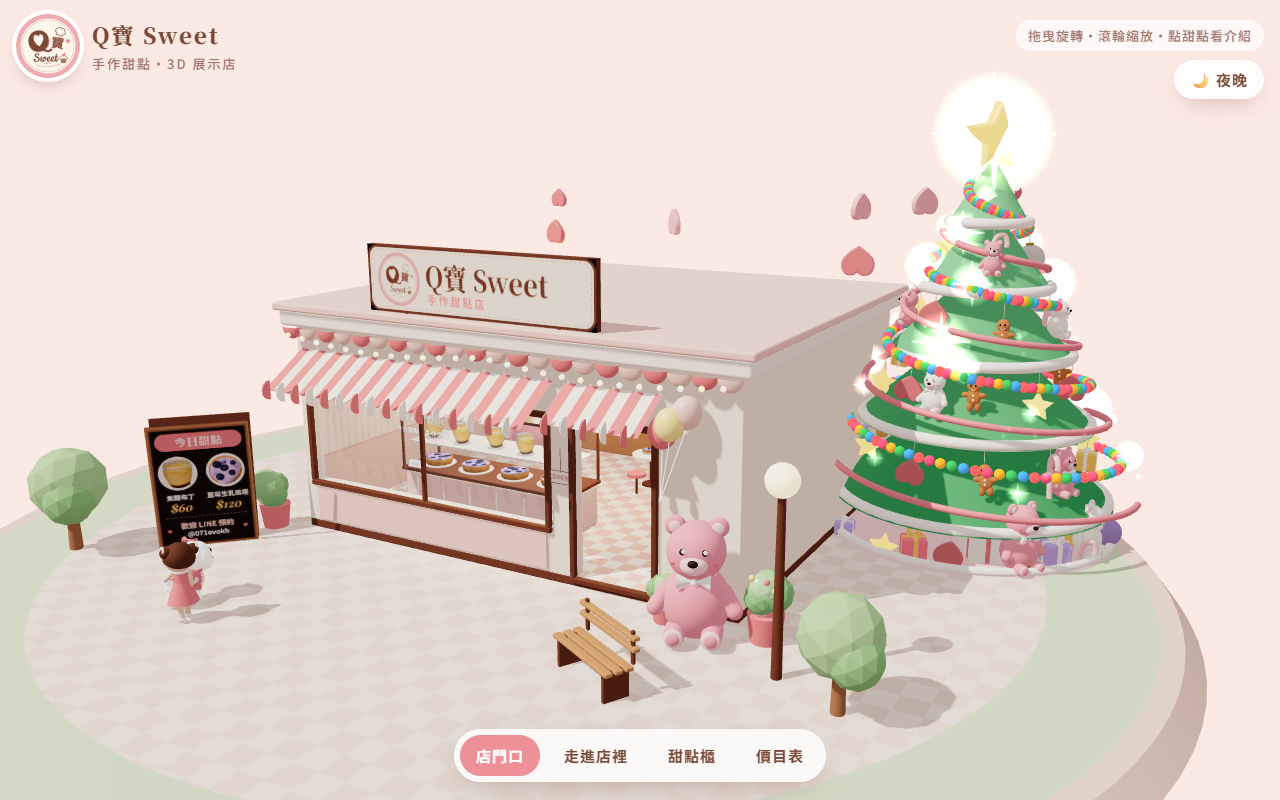
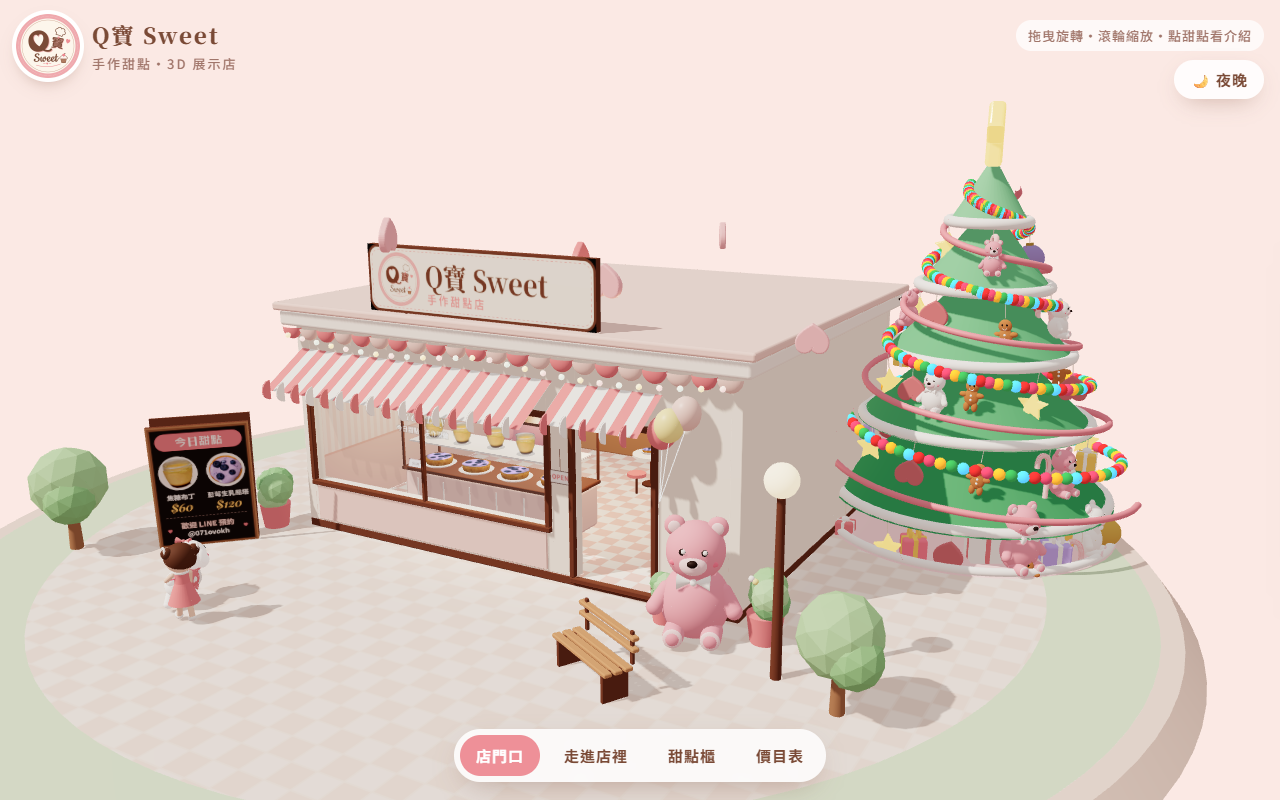
Remove white sparkle sprites; keep colorful twinkling bulbs

diff --git a/index.html b/index.html
@@ -646,21 +646,13 @@ function grandTree(x, z, S = 1){
   mesh(new THREE.TubeGeometry(new THREE.CatmullRomCurve3(pts), 400, .055, 8, false), mat(0xff9fb0, { roughness:.4, metalness:.15 }), 0, 0, 0, g);
   // fairy lights (instanced)
   const bulbM = [0xffc23a, 0xff5c8a, 0xff3b3b, 0x4fb4ff, 0x47d16c].map(c => new THREE.MeshStandardMaterial({ color:c, emissive:c, emissiveIntensity:1.1, toneMapped:false }));
-  const M4 = new THREE.Matrix4(), Q0 = new THREE.Quaternion(), V0 = new THREE.Vector3(), S0 = new THREE.Vector3(.085,.085,.085);
+  const M4 = new THREE.Matrix4(), Q0 = new THREE.Quaternion(), V0 = new THREE.Vector3(), S0 = new THREE.Vector3(.095,.095,.095);
   bulbM.forEach((bm, j) => {
     bm.userData.tw = true; twBulbs.push([bm, j * 1.7]);
     const N = 64, im = new THREE.InstancedMesh(new THREE.SphereGeometry(1, 10, 8), bm, N);
     for (let k = 0; k < N; k++){ const t = (k * 5 + j) / (N * 5), y = .75 + t * 5.1, r = 2.35 * (1 - t) + .32, a = t * Math.PI * 8 + Math.PI; im.setMatrixAt(k, M4.compose(V0.set(Math.cos(a)*r, y, Math.sin(a)*r), Q0, S0)); }
     g.add(im);
   });
-  // twinkling sparkles scattered over the tree
-  for (let k = 0; k < 90; k++){
-    const t = Math.random(), y = .9 + t * 5.0, r = (2.35 * (1 - t) + .3) * (1.02 + Math.random()*.06), a = Math.random() * Math.PI * 2;
-    const sp = new THREE.Sprite(new THREE.SpriteMaterial({ map:sparkTex, color:[0xfff6d0, 0xffd0dc, 0xffffff][k % 3], transparent:true, depthWrite:false, blending:THREE.AdditiveBlending, fog:false }));
-    sp.position.set(Math.cos(a)*r, y, Math.sin(a)*r); sp.userData = { p:Math.random()*6, sp:2 + Math.random()*3, sz:.45 + Math.random()*.4 }; g.add(sp); sparkles.push(sp);
-  }
-  const topGlow = new THREE.Sprite(new THREE.SpriteMaterial({ map:sparkTex, color:0xffe9a8, transparent:true, depthWrite:false, blending:THREE.AdditiveBlending, fog:false }));
-  topGlow.position.set(0, 6.65, .1); topGlow.userData = { p:0, sp:1.5, sz:1.9 }; g.add(topGlow); sparkles.push(topGlow);
   // big glowing star on top
   const st = mesh(starGeo3, O.star, 0, 6.65, 0, g); st.scale.setScalar(.48); xStars.push(st);
   // gifts & plushies around the base
@@ -779,7 +771,7 @@ function frame(){
   hearts.forEach(h => { h.position.y += Math.sin(t*.8 + h.userData.p) * .004; h.rotation.y = t*.6 + h.userData.p; });
   animWalkers(t);
   xStars.forEach((st, i) => st.rotation.y = t * 1.2 + i);
-  twBulbs.forEach(([m, ph]) => m.emissiveIntensity = (1.4 + 1.2*night) * (.15 + 1.6 * Math.max(0, Math.sin(t * 3.2 + ph)) ** 2));
+  twBulbs.forEach(([m, ph]) => m.emissiveIntensity = (.9 + .6*night) * (.08 + 1.1 * Math.max(0, Math.sin(t * 3.2 + ph)) ** 2));
   sparkles.forEach(sp => { const u = sp.userData, k = Math.max(0, Math.sin(t * u.sp + u.p)); sp.scale.setScalar(u.sz * (.15 + 1.1 * k * k)); sp.material.opacity = .15 + .85 * k; });
   swingers.forEach(pv => pv.rotation.z = Math.sin(t * 1.6 + pv.userData.p) * .12);
   if (Math.abs(night - nightTarget) > .001){ night += Math.sign(nightTarget - night) * Math.min(Math.abs(nightTarget - night), dt / 1.2); applyNight(night); }
